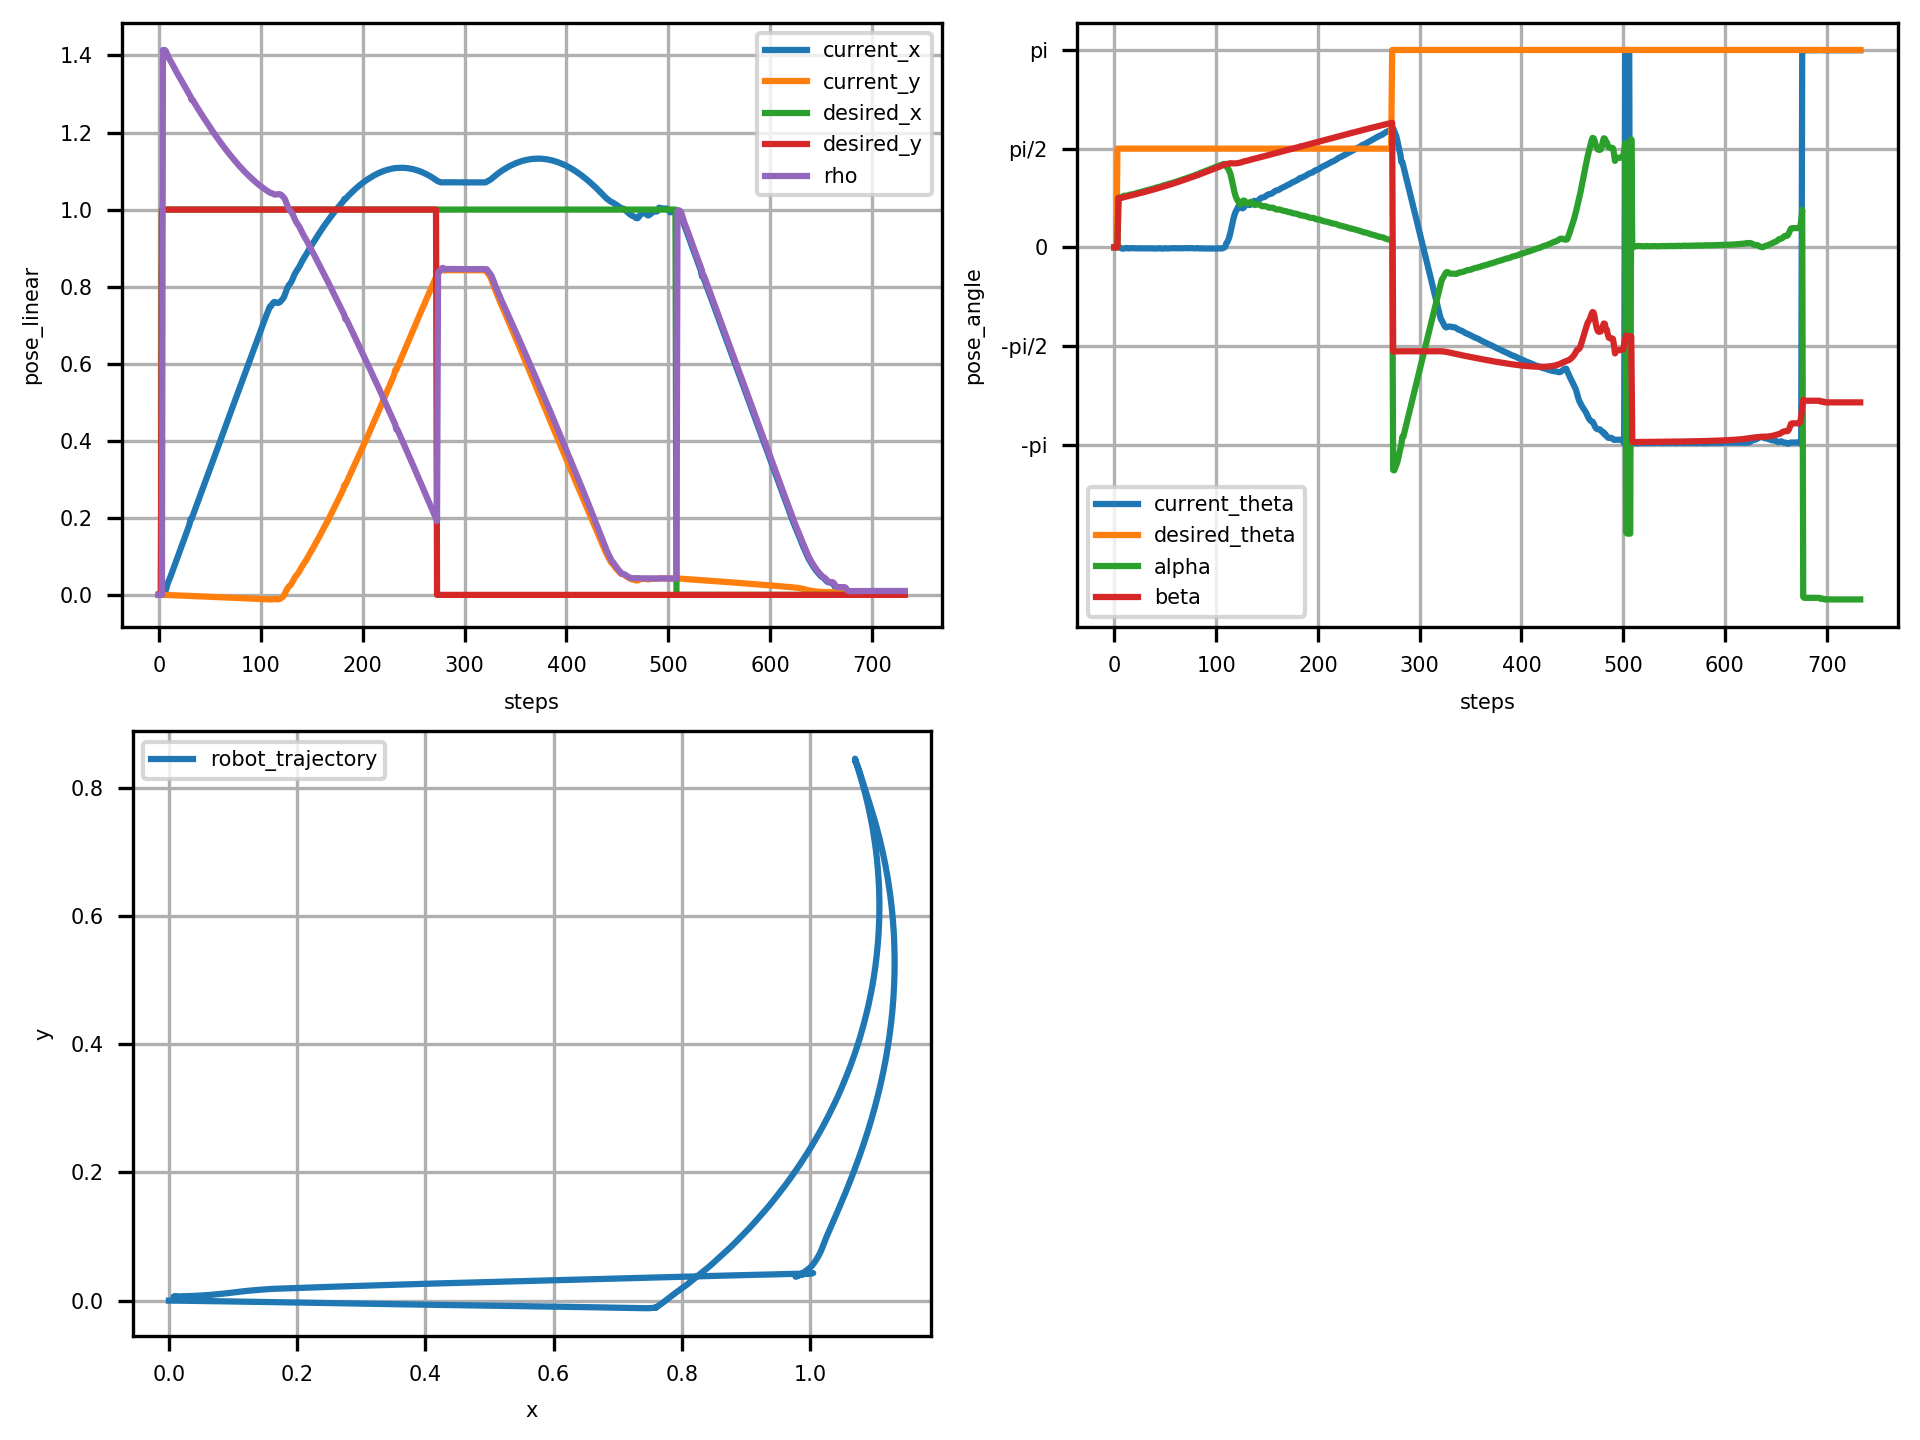
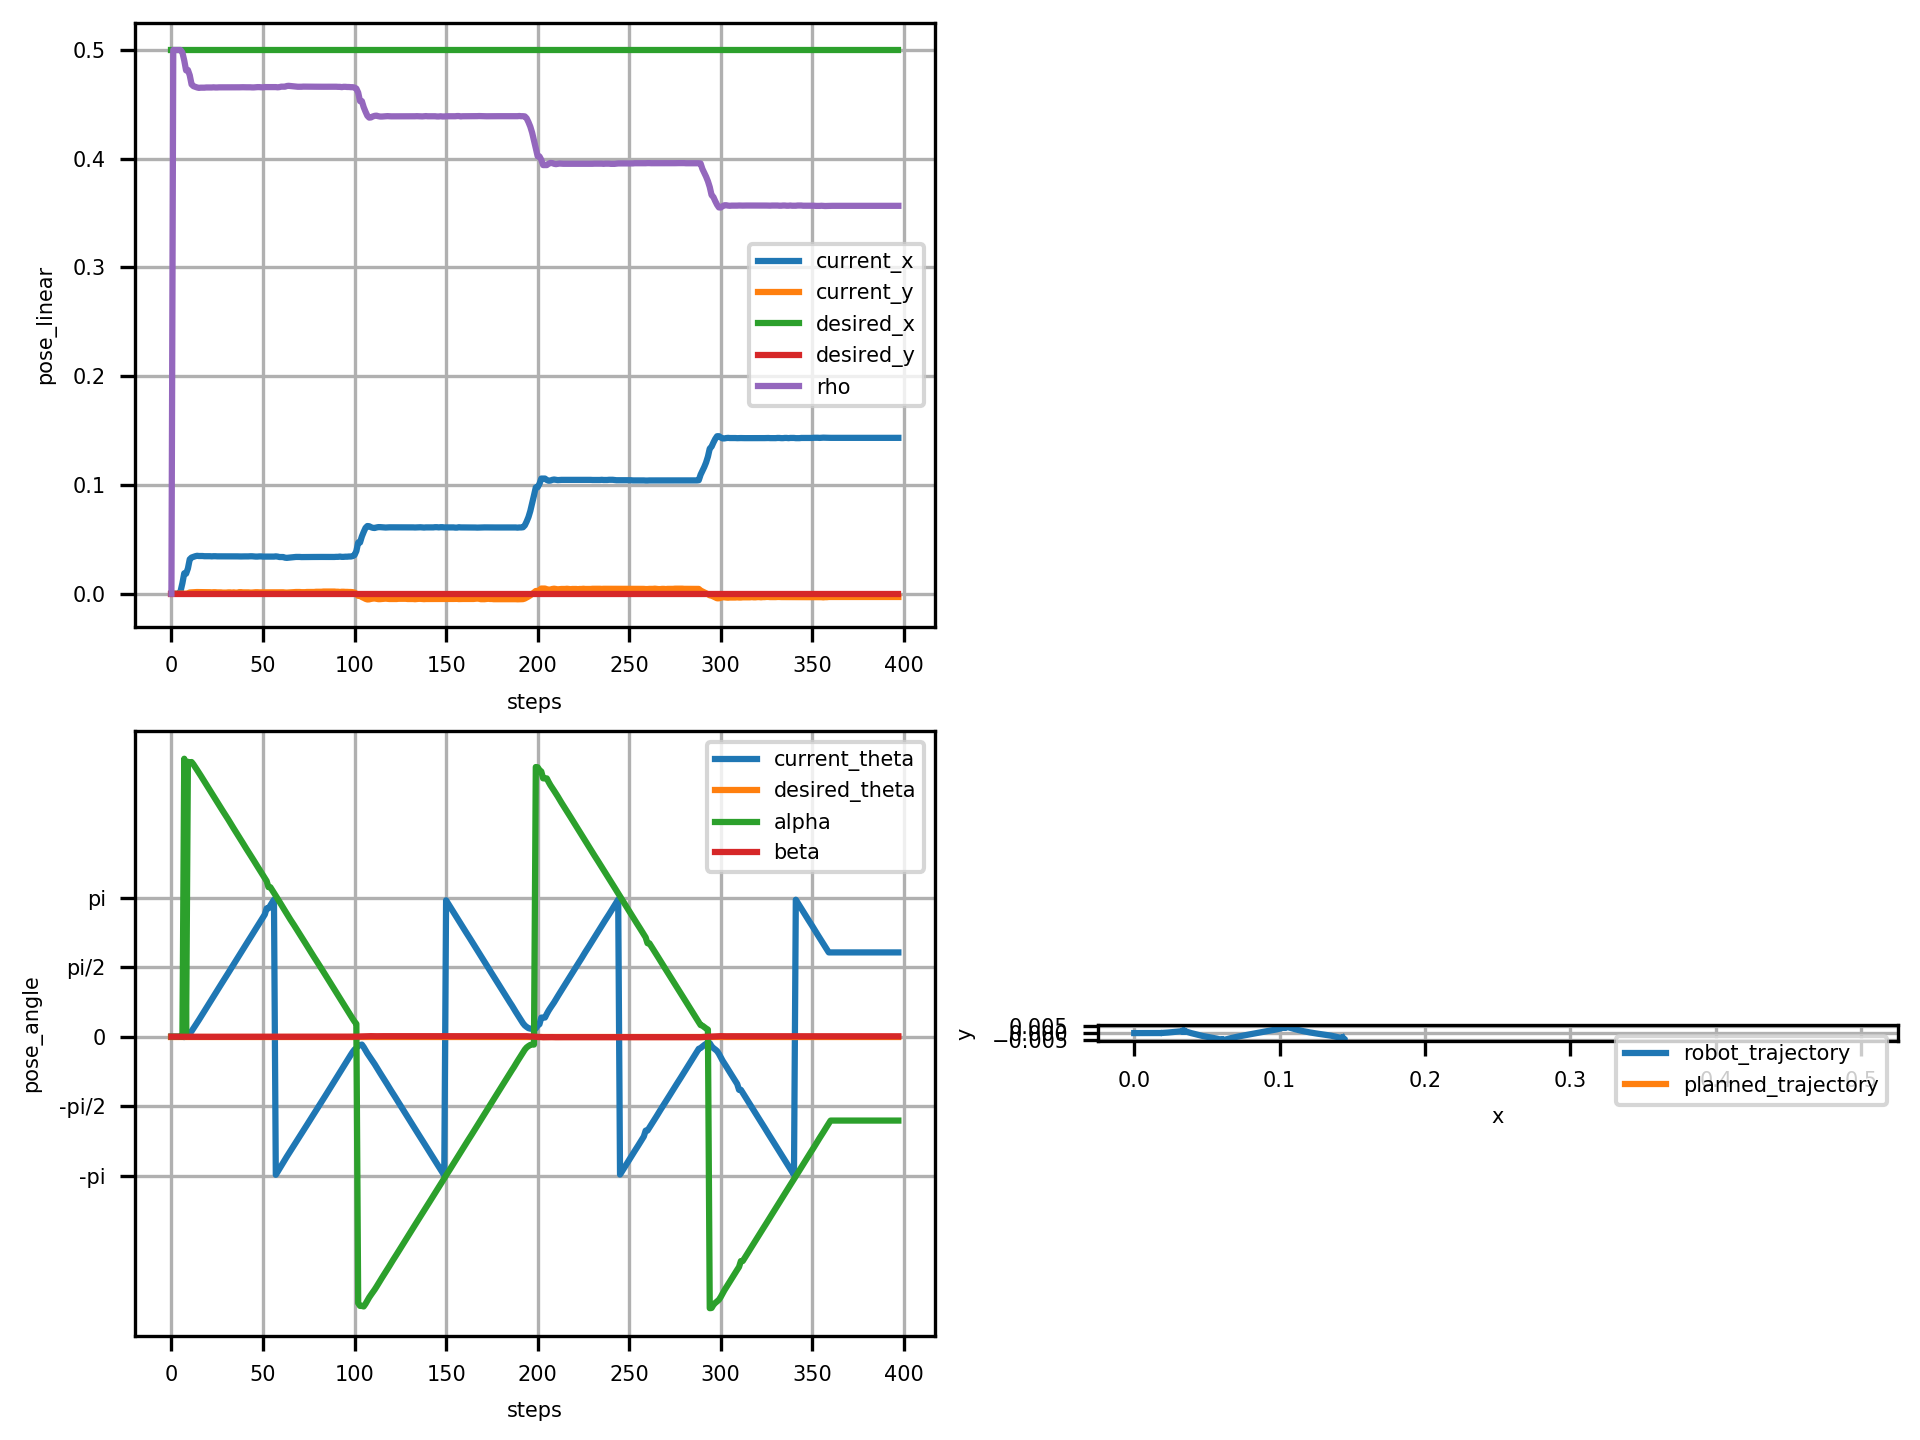
need to find another method for the outer controller

diff --git a/catkin_ws/src/navigation/src/nodes/motion_controller.py b/catkin_ws/src/navigation/src/nodes/motion_controller.py
@@ -198,7 +198,7 @@ class MotionController:
         # The angle between the goal theta and the current position of the robot
         self.beta = atan2(ey, ex)
         # Intended angle between the robot and the direction of rho
-        self.alpha = self.beta - theta
+        self.alpha = self.get_error_theta(self.beta, theta)
 
         # Orientation considerations
         # NOTE that to take this into account, we need the measured angle between -pi and pi, i.e. the standard odometry return
@@ -242,7 +242,7 @@ class MotionController:
         plt.legend()
         ax1.grid(True)
 
-        ax2 = plt.subplot(2, 2, 2)
+        ax2 = plt.subplot(2, 2, 3)
         plt.plot(self.current_theta__list, label="current_theta")
         plt.plot(self.desired_theta__list, label="desired_theta")
         if self.controller_type == 2:
@@ -254,8 +254,9 @@ class MotionController:
         plt.legend()
         ax2.grid(True)
 
-        ax3 = plt.subplot(2, 2, 3)
+        ax3 = plt.subplot(2, 2, 4)
         plt.plot(self.current_pose_x_list, self.current_pose_y_list, label="robot_trajectory")
+        plt.plot(self.desired_pose_x_list, self.desired_pose_y_list, label="planned_trajectory")
         plt.xlabel('x')
         plt.ylabel('y')
         # plt.title("Trajectories")

diff --git a/catkin_ws/src/navigation/src/nodes/task_level_controller.py b/catkin_ws/src/navigation/src/nodes/task_level_controller.py
@@ -14,15 +14,20 @@ import tf.transformations
 from math import pi
 
 # Define hyperparameters
-ERROR_X = 0.2
-ERROR_Y = 0.2
-ERROR_ANGULAR = pi / 10
+ERROR_X = 0.05
+ERROR_Y = 0.05
+ERROR_ANGULAR = pi / 100
 
 # Path
 PATH = [
-    Pose2D(1, 1, pi/2),
-    Pose2D(1, 0, pi),
-    Pose2D(0, 0, pi)
+    Pose2D(0.5, 0, 0),
+    Pose2D(0.5, 0, pi/2),
+    Pose2D(0.5, 0.5, pi/2),
+    Pose2D(0.5, 0.5, pi),
+    Pose2D(0, 0.5, pi),
+    Pose2D(0, 0.5, -pi/2),
+    Pose2D(0, 0, -pi/2),
+    Pose2D(0, 0, 0)
 ]
 
 class TaskLevelController:
